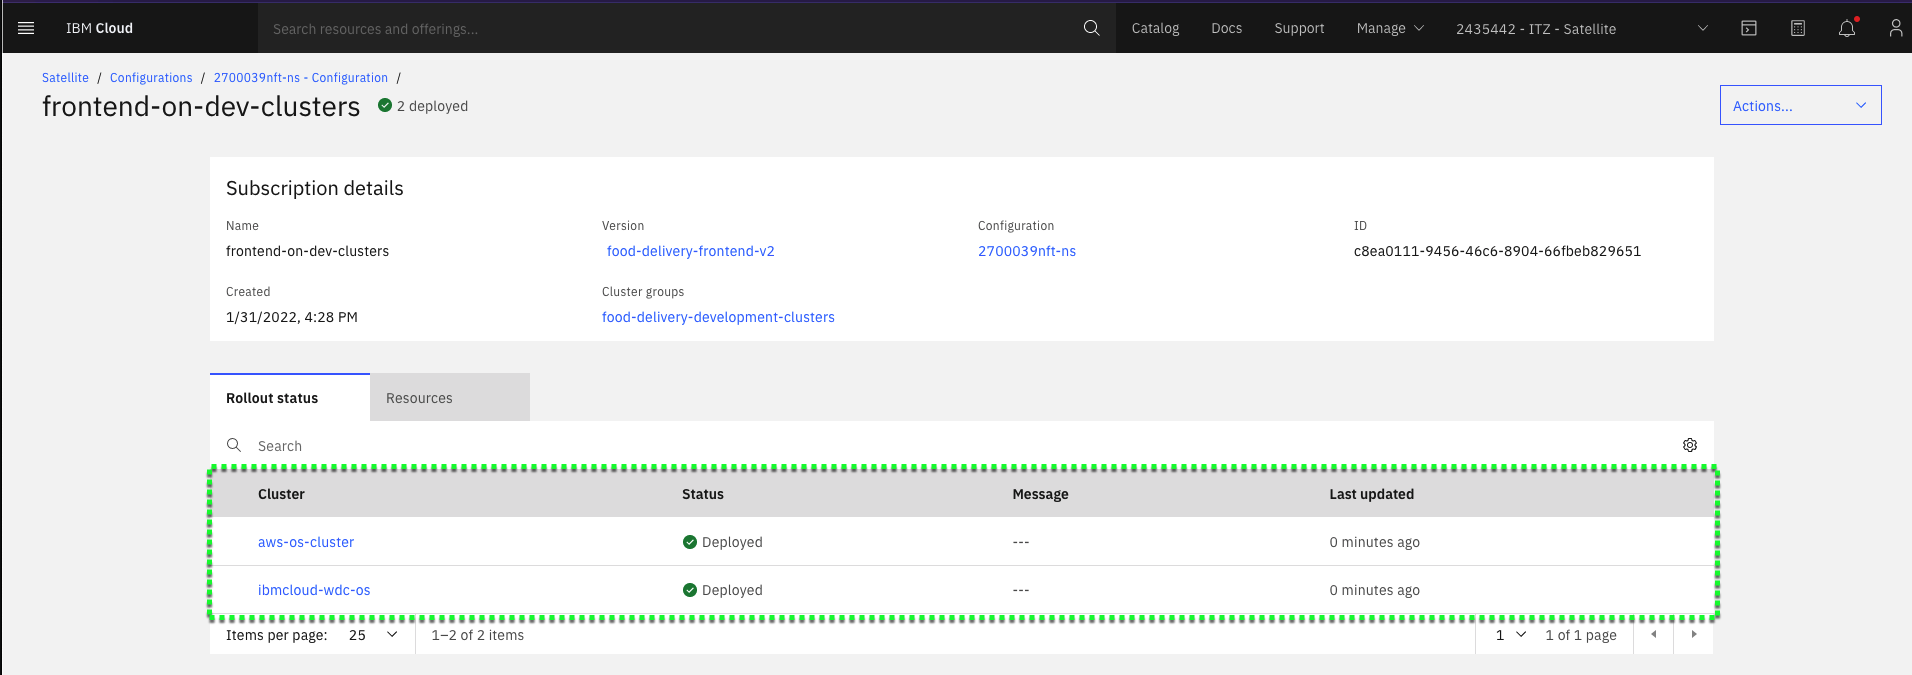
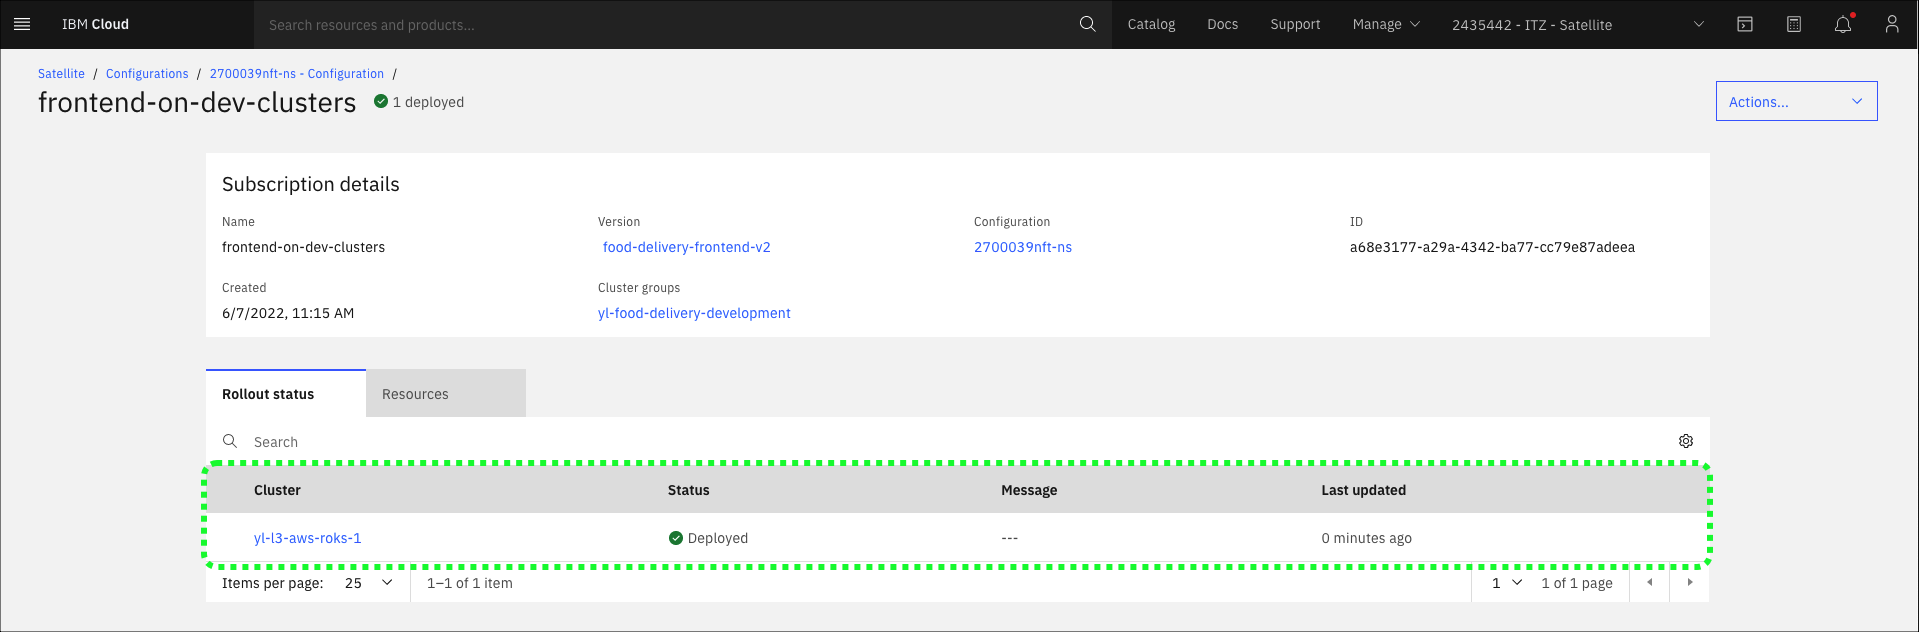
update images

diff --git a/docs/deploy-application/03.02 Create versions using command line interfaces.md b/docs/deploy-application/03.02 Create versions using command line interfaces.md
@@ -158,9 +158,9 @@ ibmcloud sat host get --location {{ aws.location }} --host {{ aws.host_ip }}
 ??? example "Example output"
     Retrieving host details...
 
-    Name:     ip-10-0-1-114
+    Name:     ip-10-0-1-107
 
-    ID:       b7f18e883cd88cace8d7
+    ID:       289f4f6e3d1a3c42d29d
 
     State:    assigned
 
@@ -168,31 +168,34 @@ ibmcloud sat host get --location {{ aws.location }} --host {{ aws.host_ip }}
 
     Zone:     us-east-2a
 
+
     Labels
 
-    cpu      4
+    memory     15963132
 
-    env      prod
+    os         RHEL7
 
-    memory   15963200
+    provider   aws
 
-    os       RHEL7
+    zone       us-east-2a
 
-    zone     us-east-2a
+    cpu        4
+
+    env        prod
+
 
     Assignment
 
-    Cluster:       aws-os-cluster
+    Cluster:       yl-l3-aws-roks-1
 
     Worker Pool:   default
 
-    Worker ID:     sat-ip1001114-df552aab5e6958f69e3e2004ff8de9e21e941cdf
+    Worker ID:     sat-ip1001107-1ee31562dda0bcd519bc8beea3614836eb83fe18
 
-    Worker IP:     10.0.1.114
-
-    Date:          21 hours ago
+    Worker IP:     10.0.1.107
 
     OK
+
 
 All the commands executed above are commands that list or view the details of an IBM Cloud Satellite object. There are also commands to create, remove, and modify these objects. In this demonstration environment, you do **not** have permissions to add, remove or change Locations or Hosts.
 

diff --git a/docs/deploy-application/03.04 Verify the application is deployed.md b/docs/deploy-application/03.04 Verify the application is deployed.md
@@ -4,7 +4,7 @@ At this point, the application should be identically deployed to both the develo
 
 ![](_attachments/0122-ClustersList.png)
 
-2. Click the **aws-os-cluster** label.
+2. Click the **{{ aws.cluster_name }}** label.
 
 Be sure to click the correct label as illustrated in the image below.
 
